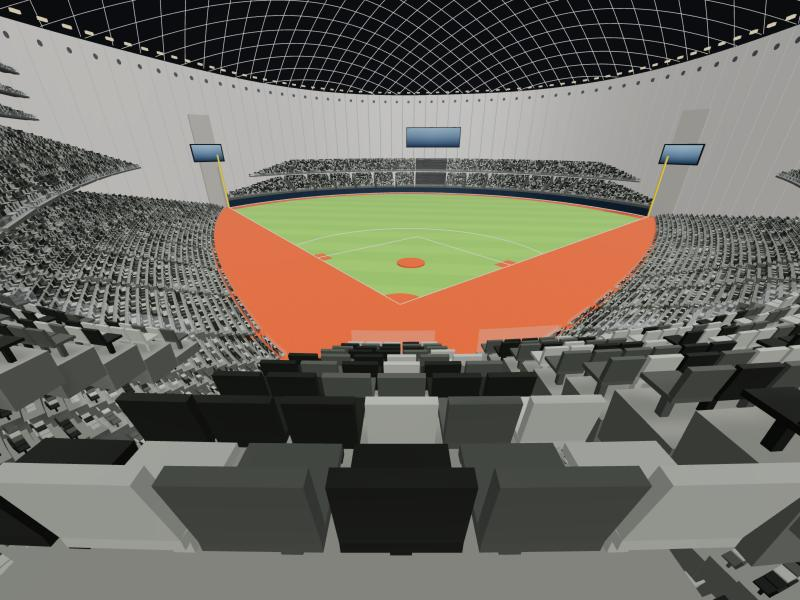
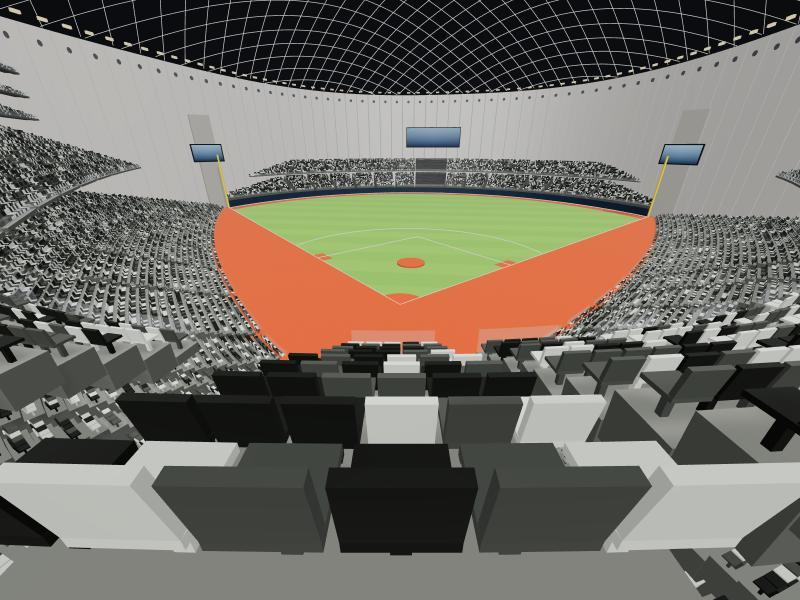
feat(render): seat colours pass after sampling a field of small seats
The first render box caught only a few close-up chairs and treads, so
seats are now sampled from a patch of B1 seats in the 0.5x shot. After
two more rounds the dark, mid and light groups are all within 15/255.

diff --git a/src/render/seats.ts b/src/render/seats.ts
@@ -27,7 +27,7 @@ export const SEAT_NEUTRAL = new THREE.Color("#3b4d61");
  * 座位視角的椅子顏色：中灰、淺灰、深灰各約 1/3，不規則配置。
  * 顏色以參考照片取樣的三群為目標校色（見 docs/look-targets.md），不是官方配色或量測值。
  */
-export const SEAT_PALETTE = [new THREE.Color("#4a4d47"), new THREE.Color("#979991"), new THREE.Color("#1b1e18")] as const;
+export const SEAT_PALETTE = [new THREE.Color("#4a4d47"), new THREE.Color("#c6c9bf"), new THREE.Color("#171a14")] as const;
 export const SEAT_PALETTE_WEIGHTS = [0.34, 0.33, 0.33] as const;
 
 /** 這一席在 SEAT_PALETTE 裡的顏色：由 (區、排、號) 雜湊決定，每次都一樣。 */

diff --git a/docs/look-targets.md b/docs/look-targets.md
@@ -20,10 +20,11 @@
 ## 目標 vs 現況（渲染：L2 212 區第 10 排 3 號、不轉頭）
 
 照片和渲染的視角不同（照片相機較高、看得到屋頂），同樣比例的框會框到不同東西，所以渲染圖的框放在同一個元素上，先畫標註圖確認：
-- 草皮、紅土、座椅取 1× 截圖；牆面、屋頂梁在 1× 看不到，取 0.5× 截圖。
-- 渲染的框：草皮 0.55–0.70, 0.33–0.37；紅土 0.10–0.18, 0.40–0.50；牆面 0.64–0.84, 0.20–0.25（0.5×）；屋頂梁 0.30–0.70, 0.00–0.10（0.5×）；座椅 0.36–0.64, 0.80–0.95。
+- 草皮、紅土取 1× 截圖；牆面、屋頂梁在 1× 看不到，取 0.5× 截圖。
+- 座椅：第一版取 1× 截圖下方（0.36–0.64, 0.80–0.95），只框到幾張近處的大椅子，中位群多半是椅子側面與踏面，跟照片框裡上百張小椅子加地面的組成不同。使用者同意後改取 0.5× 截圖裡三壘側 B1 看台的一片小椅子（0.02–0.24, 0.30–0.50）。
+- 渲染的框：草皮 0.55–0.70, 0.33–0.37；紅土 0.10–0.18, 0.40–0.50；牆面 0.64–0.84, 0.20–0.25（0.5×）；屋頂梁 0.30–0.70, 0.00–0.10（0.5×）；座椅 0.02–0.24, 0.30–0.50（0.5×）。
 
-| 元素 | 通道 | 目標 | 改前 | 改後（第 3 輪） | 改後差 | ≤ 15 |
+| 元素 | 通道 | 目標 | 改前 | 改後 | 改後差 | ≤ 15 |
 |---|---|---|---|---|---|---|
 | 草皮 | R | 169.0 | 151.7 | 159.7 | -9.3 | ✓ |
 |  | G | 202.8 | 199.6 | 194.6 | -8.2 | ✓ |
@@ -37,18 +38,18 @@
 | 屋頂梁 | R | 115.5 | 152.8 | 125.9 | +10.4 | ✓ |
 |  | G | 124.0 | 153.8 | 126.9 | +2.9 | ✓ |
 |  | B | 109.2 | 157.8 | 129.2 | +20.0 | ✗ |
-| 座椅・最暗群 | R | 38.1 | 50.1 | 46.7 | +8.6 | ✓ |
-|  | G | 41.4 | 51.3 | 49.0 | +7.6 | ✓ |
-|  | B | 33.7 | 55.5 | 44.6 | +10.9 | ✓ |
-| 座椅・中位群 | R | 108.5 | 214.7 | 147.8 | +39.3 | ✗ |
-|  | G | 110.7 | 215.6 | 150.2 | +39.5 | ✗ |
-|  | B | 102.5 | 217.0 | 143.6 | +41.1 | ✗ |
-| 座椅・最亮群 | R | 176.6 | 232.5 | 178.6 | +2.0 | ✓ |
-|  | G | 178.4 | 232.8 | 180.8 | +2.4 | ✓ |
-|  | B | 170.5 | 233.6 | 175.7 | +5.2 | ✓ |
+| 座椅・最暗群（換框後） | R | 38.1 | 102.9 | 49.3 | +11.2 | ✓ |
+|  | G | 41.4 | 104.1 | 51.3 | +9.9 | ✓ |
+|  | B | 33.7 | 107.6 | 47.2 | +13.5 | ✓ |
+| 座椅・中位群（換框後） | R | 108.5 | 159.5 | 105.8 | -2.7 | ✓ |
+|  | G | 110.7 | 160.9 | 107.8 | -2.9 | ✓ |
+|  | B | 102.5 | 164.2 | 103.6 | +1.1 | ✓ |
+| 座椅・最亮群（換框後） | R | 176.6 | 200.6 | 166.1 | -10.5 | ✓ |
+|  | G | 178.4 | 201.4 | 167.3 | -11.1 | ✓ |
+|  | B | 170.5 | 203.4 | 163.4 | -7.1 | ✓ |
 
-- 通過：草皮、紅土、座椅最暗群、座椅最亮群。
-- 沒通過：座椅中位群（約 +40）。渲染的座椅框只框到少數幾張近處的大椅子，中位群多半是淺色椅子的側面與踏面；照片的框裡是上百張小椅子加地面，兩邊的組成不同，三輪內沒有收斂。
+- 通過：草皮、紅土（第 2 輪起）、座椅三群（換框後第 2 輪；三群各占 34.5%、32.5%、33%）。
+- 換框前的第 3 輪，座椅中位群差約 +40，原因見上。
 - 牆面、屋頂梁屬於 Pass 2（屋頂梁、霧用牆面色）；Pass 1 沒有全部通過，依規則沒有做 Pass 2，只把屋頂格柵壓到亮度 215 以下。
 
 ## 改了什麼（Pass 1）
@@ -56,7 +57,7 @@
 | 項目 | 改前 | 改後 |
 |---|---|---|
 | 曝光 | 1.25 | 0.9 |
-| 座椅（中灰、淺灰、深灰） | `#b9bdc3`、`#eeeff1`、`#2a2c30`，35%、50%、15% | `#4a4d47`、`#979991`、`#1b1e18`，34%、33%、33% |
+| 座椅（中灰、淺灰、深灰） | `#b9bdc3`、`#eeeff1`、`#2a2c30`，35%、50%、15% | `#4a4d47`、`#c6c9bf`、`#171a14`，34%、33%、33% |
 | 看台踏面、側面 | `#b4b7bb`、`#8c9096` | `#7d7e77`、`#5c5e58` |
 | 草皮紋理倍數（R、G、B） | 1、1、1 | 1.9、1.3、1.8（半精度浮點紋理，polygon 顏色不動） |
 | 紅土紋理倍數 | 1、1、1 | 1.075、0.71、1.26 |
